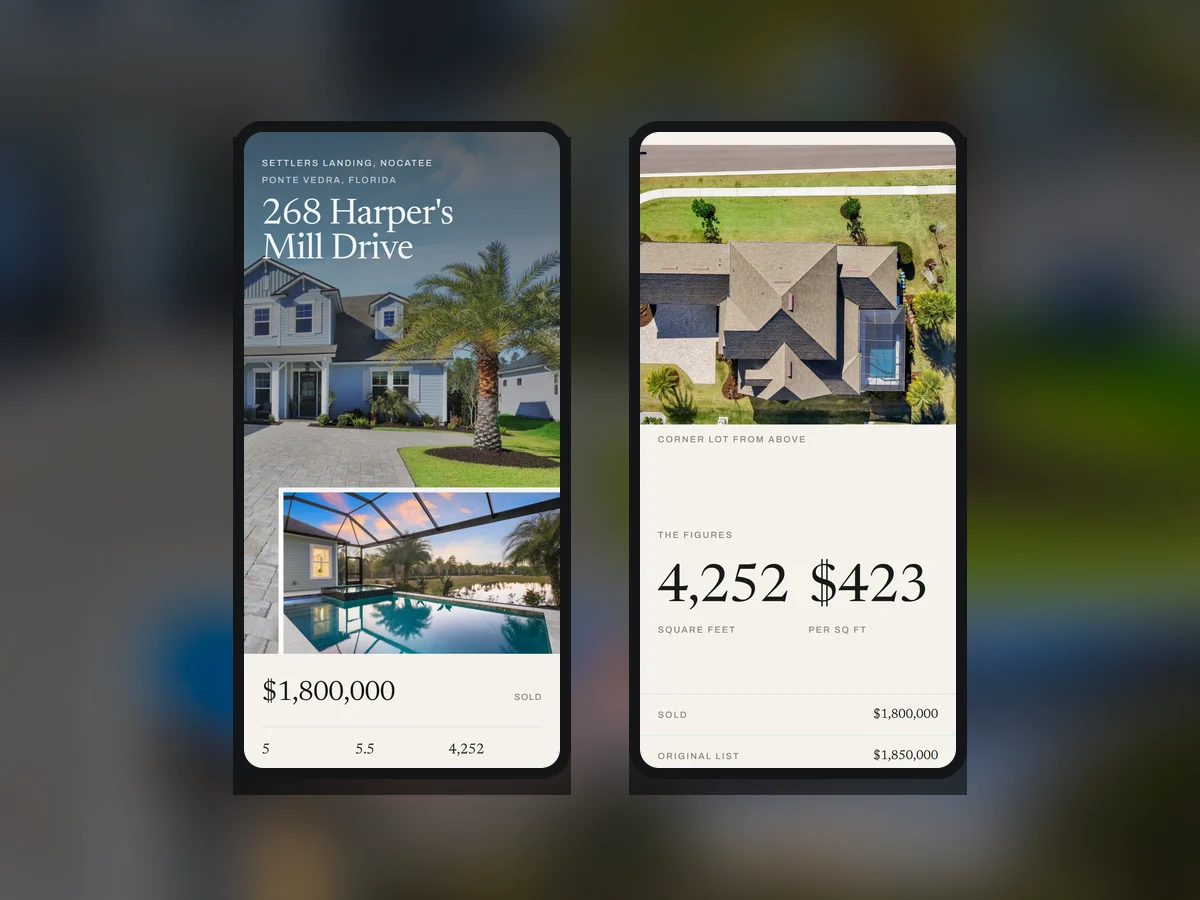
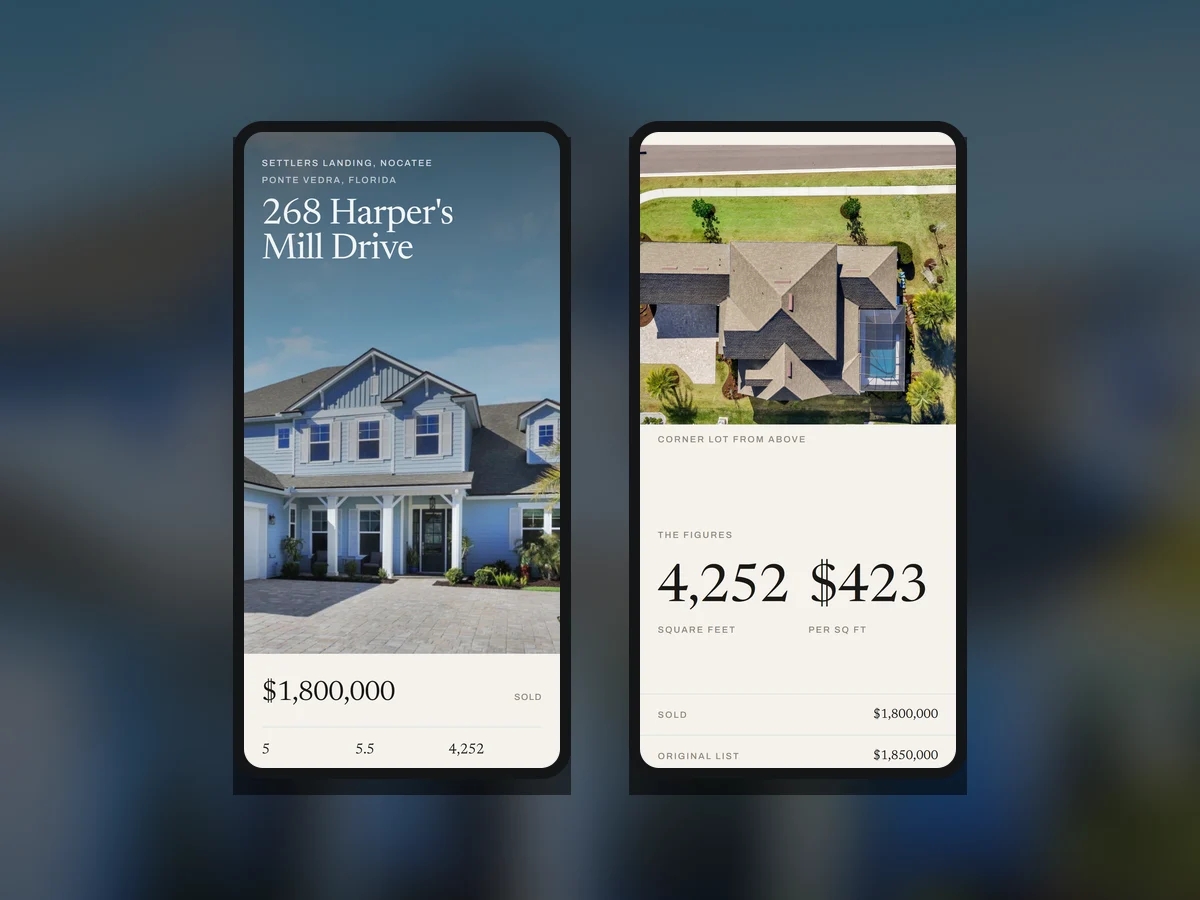
Recapture the hero frames from the updated guide, and drop to two
The guide's opening photo changed, so both frames were recaptured from the live
site. Section offsets were re-measured first rather than reused: the document is
still 10,036px with the figures at 5947, so only the image itself changed and the
capture points held.

Also removed the third frame. The hero now alternates the opening screen and the
aerial shot that runs into the figures.

Retimed for two. Each frame still holds 4s, so the cycle is 8s. The fade numbers
were recomputed again rather than carried over: a frame now fades out across 50%
to 57.5%, exactly the window the other fades in across, so the pair stays
complementary. Sampled every half second through a full cycle the combined
opacity is a flat 1.00.

Removed guide-openhouse-stats.webp, which nothing referenced afterwards.

diff --git a/styles.css b/styles.css
@@ -74,20 +74,19 @@ img{max-width:100%;display:block}
 .phone{position:relative;border-radius:32px;padding:9px;background:var(--ink-800);box-shadow:var(--shadow-lifted);animation:floatY 7s ease-in-out infinite}
 @keyframes floatY{0%,100%{transform:translateY(0)}50%{transform:translateY(-8px)}}
 .phone-screen{position:relative;border-radius:24px;overflow:hidden;background:var(--paper-100);aspect-ratio:620/1248}
-/* Three real screenfuls of the guide, cross-faded. Each frame runs the same
-   12s keyframe offset by 4s. A frame fades out over exactly the window the
+/* Two real screenfuls of the guide, cross-faded. Each frame runs the same
+   8s keyframe offset by 4s. A frame fades out over exactly the window the
    next one fades in, so the two are complementary and the pair always sums to 1,
    never dipping toward the background. The first frame carries a static opacity:1 so
    that under prefers-reduced-motion, where animations are switched off further
    down this sheet, the screen still shows the guide rather than going blank.
    The phone's floatY is untouched: it sits on .phone, this sits on the frames. */
-.phone-screen .frame{position:absolute;inset:0;opacity:0;border-radius:24px;overflow:hidden;animation:frameFade 12s linear infinite}
+.phone-screen .frame{position:absolute;inset:0;opacity:0;border-radius:24px;overflow:hidden;animation:frameFade 8s linear infinite}
 .phone-screen .frame:first-child{opacity:1}
 .phone-screen .frame img{width:100%;height:100%;object-fit:cover;display:block}
 .phone-screen .frame:nth-child(1){animation-delay:0s}
 .phone-screen .frame:nth-child(2){animation-delay:4s}
-.phone-screen .frame:nth-child(3){animation-delay:8s}
-@keyframes frameFade{0%{opacity:0}5%{opacity:1}33.33%{opacity:1}38.33%{opacity:0}100%{opacity:0}}
+@keyframes frameFade{0%{opacity:0}7.5%{opacity:1}50%{opacity:1}57.5%{opacity:0}100%{opacity:0}}
 
 /* work */
 .work{padding:clamp(34px,3.6vw,50px) var(--pad-x) clamp(56px,8vw,110px)}

diff --git a/index.html b/index.html
@@ -64,7 +64,6 @@
           <div class="phone-screen">
             <div class="frame"><img src="images/guide-openhouse-home.webp" width="620" height="1248" alt="The guide’s opening screen on a phone: 268 Harper’s Mill Drive over a photo of the home, then the sold price and the bed, bath and square-foot counts." loading="eager" decoding="async"></div>
             <div class="frame"><img src="images/guide-openhouse-photo.webp" width="620" height="1248" alt="The guide’s gallery running into its figures on a phone: an aerial shot of the corner lot, captioned, then 4,252 square feet at $423 per square foot, the sold price and the original list price." loading="lazy" decoding="async"></div>
-            <div class="frame"><img src="images/guide-openhouse-stats.webp" width="620" height="1248" alt="The guide’s detail rows on a phone: waterfront, garage, taxes, HOA, CDD and MLS number, then the house section listing kitchen and primary suite features." loading="lazy" decoding="async"></div>
           </div>
           </div>
         </div>
